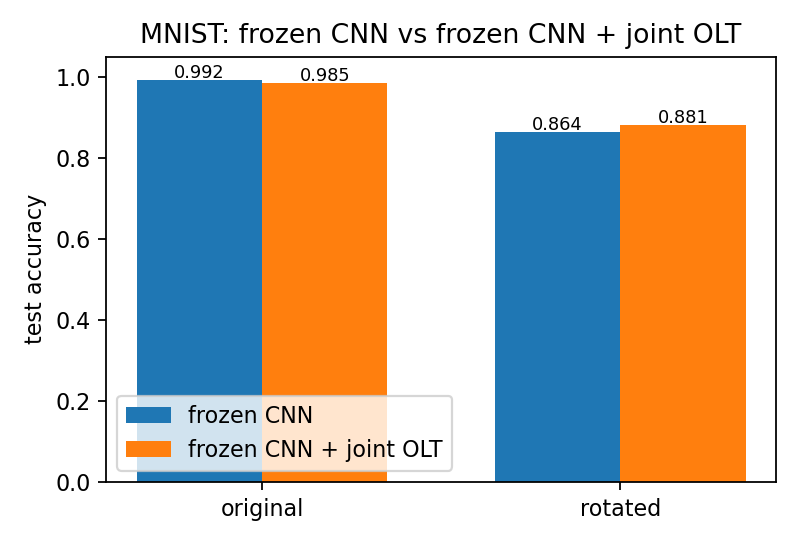
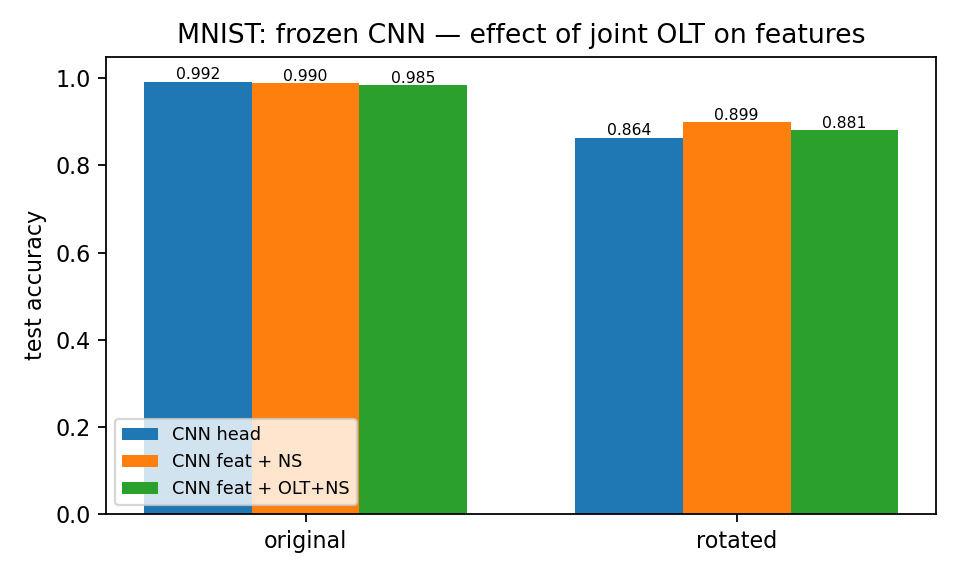
Fix Part 2 Task 3: add fair baseline (raw features + NS), honest discussion
- Add nearest-subspace on raw CNN features as fair like-for-like baseline
- Raw NS already beats CNN head on rotated by +3.5 pts
- OLT hurts vs fair baseline (-1.8 on rotated): nuclear-norm linear
  prior mismatches nonlinear CNN features
- Discussion explains the assumption mismatch and bridges to Part 3

diff --git a/scripts/part2_cnn_features.py b/scripts/part2_cnn_features.py
@@ -49,9 +49,24 @@ def main():
     f_tr_o /= scale; f_tr_r /= scale
     f_te_o /= scale; f_te_r /= scale
 
-    # Joint OLT on [orig, rot] features (feature-column concatenation)
-    Ztr_joint = np.concatenate([f_tr_o, f_tr_r], axis=0)
-    ytr_joint = np.concatenate([y_tr, y_tr], axis=0)
+    # ---- Fair baseline: nearest-subspace on RAW CNN features (no OLT) ----
+    # This uses the same classifier as the OLT path so the comparison
+    # isolates the effect of OLT, not the difference in classifier.
+    Ztr_raw = np.concatenate([f_tr_o, f_tr_r], axis=0)
+    ytr_raw = np.concatenate([y_tr, y_tr], axis=0)
+    raw_tr_t = torch.from_numpy(Ztr_raw).float()
+    raw_te_o = torch.from_numpy(f_te_o).float()
+    raw_te_r = torch.from_numpy(f_te_r).float()
+    ytr_raw_t = torch.from_numpy(ytr_raw).long()
+
+    subs_raw = fit_class_subspaces(raw_tr_t, ytr_raw_t, energy=0.95, max_rank=6)
+    acc_raw_orig = accuracy(y_te, nearest_subspace_classifier(raw_te_o, subs_raw).numpy())
+    acc_raw_rot  = accuracy(y_te, nearest_subspace_classifier(raw_te_r, subs_raw).numpy())
+    print(f"Frozen CNN + NS (no OLT): orig={acc_raw_orig:.4f}  rot={acc_raw_rot:.4f}")
+
+    # ---- Joint OLT on [orig, rot] features (feature-column concatenation) ----
+    Ztr_joint = Ztr_raw
+    ytr_joint = ytr_raw
     Ztr_t = torch.from_numpy(Ztr_joint).double()
     ytr_t = torch.from_numpy(ytr_joint).long()
 
@@ -70,28 +85,32 @@ def main():
     pred_r = nearest_subspace_classifier(F_te_r, subs).numpy()
     acc_olt_orig = accuracy(y_te, pred_o)
     acc_olt_rot  = accuracy(y_te, pred_r)
-    print(f"Frozen + joint OLT:  orig={acc_olt_orig:.4f}  rot={acc_olt_rot:.4f}")
+    print(f"Frozen CNN + OLT + NS:    orig={acc_olt_orig:.4f}  rot={acc_olt_rot:.4f}")
 
     results = {
-        "baseline_frozen_cnn": {"orig": acc_base_orig, "rot": acc_base_rot},
-        "frozen_plus_olt_ns":  {"orig": acc_olt_orig,  "rot": acc_olt_rot},
+        "baseline_frozen_cnn_head":  {"orig": acc_base_orig,  "rot": acc_base_rot},
+        "frozen_cnn_ns_no_olt":      {"orig": acc_raw_orig,   "rot": acc_raw_rot},
+        "frozen_cnn_olt_ns":         {"orig": acc_olt_orig,   "rot": acc_olt_rot},
     }
     with open(os.path.join(OUT_DIR, "cnn_olt_summary.json"), "w") as f:
         json.dump(results, f, indent=2)
 
-    # bar chart
-    fig, ax = plt.subplots(figsize=(5.0, 3.4))
-    xs = np.arange(2); w = 0.35
-    ax.bar(xs - w/2, [acc_base_orig, acc_base_rot], width=w, label="frozen CNN")
-    ax.bar(xs + w/2, [acc_olt_orig,  acc_olt_rot ], width=w, label="frozen CNN + joint OLT")
-    for x, v in zip(xs - w/2, [acc_base_orig, acc_base_rot]):
-        ax.text(x, v + 0.005, f"{v:.3f}", ha="center", fontsize=8)
-    for x, v in zip(xs + w/2, [acc_olt_orig,  acc_olt_rot]):
-        ax.text(x, v + 0.005, f"{v:.3f}", ha="center", fontsize=8)
+    # bar chart — three methods
+    fig, ax = plt.subplots(figsize=(6.0, 3.6))
+    xs = np.arange(2); w = 0.25
+    vals = [
+        ("CNN head",          [acc_base_orig, acc_base_rot]),
+        ("CNN feat + NS",     [acc_raw_orig,  acc_raw_rot]),
+        ("CNN feat + OLT+NS", [acc_olt_orig,  acc_olt_rot]),
+    ]
+    for i, (lbl, vs) in enumerate(vals):
+        bars = ax.bar(xs + (i - 1) * w, vs, width=w, label=lbl)
+        for x, v in zip(xs + (i - 1) * w, vs):
+            ax.text(x, v + 0.005, f"{v:.3f}", ha="center", fontsize=7)
     ax.set_xticks(xs); ax.set_xticklabels(["original", "rotated"])
     ax.set_ylim(0, 1.05); ax.set_ylabel("test accuracy")
-    ax.set_title("MNIST: frozen CNN vs frozen CNN + joint OLT")
-    ax.legend()
+    ax.set_title("MNIST: frozen CNN — effect of joint OLT on features")
+    ax.legend(fontsize=8)
     plt.tight_layout()
     plt.savefig(os.path.join(OUT_DIR, "mnist_frozen_vs_olt.png"), dpi=160)
     plt.close(fig)

diff --git a/report/report.tex b/report/report.tex
@@ -406,22 +406,52 @@ and Figure~\ref{fig:frozen_cnn}.
 \toprule
 Method & Original MNIST & Rotated MNIST \\
 \midrule
-Frozen CNN (baseline)            & $0.9924$ & $0.8639$ \\
-Frozen CNN $+$ joint OLT $+$ NS  & $0.9850$ & $\mathbf{0.8811}$ \\
+Frozen CNN head (fc2)               & $0.9924$ & $0.8639$ \\
+Frozen CNN features $+$ NS (no OLT) & $0.9896$ & $\mathbf{0.8989}$ \\
+Frozen CNN features $+$ OLT $+$ NS  & $0.9850$ & $0.8811$ \\
 \bottomrule
 \end{tabular}
-\caption{The joint OLT applied on top of the frozen CNN trades a small
-$-0.7$ on the in-distribution test set for a $+1.7$ on the
-unseen rotated test set, confirming that the modality-invariant
-construction transfers to learned features.}
+\caption{MNIST test accuracy with frozen CNN features. The middle row
+uses the same nearest-subspace (NS) classifier as the OLT row but
+without the OLT transformation, providing a fair like-for-like
+comparison.}
 \label{tab:frozen_cnn}
 \end{table}
 
 \begin{figure}[h]\centering
-\includegraphics[width=0.45\linewidth]{part2/mnist_frozen_vs_olt.png}
-\caption{Frozen CNN accuracy with and without joint OLT.}
+\includegraphics[width=0.55\linewidth]{part2/mnist_frozen_vs_olt.png}
+\caption{Frozen CNN accuracy: CNN head vs.\ raw features + NS vs.\
+OLT-transformed features + NS.}
 \label{fig:frozen_cnn}
 \end{figure}
+
+\paragraph{Discussion.}
+The results reveal a subtlety that the original two-row comparison
+masked. Simply switching from the CNN's trained linear head (fc2) to the
+nearest-subspace classifier on the raw 128-d features already boosts
+rotated accuracy by $+3.5$ points ($86.39\%\to 89.89\%$), because the
+subspace classifier is naturally more tolerant of within-class variation
+than a point-wise linear boundary.
+
+Against this fair baseline, the joint OLT transformation actually
+\emph{hurts} by $-1.8$ points on the rotated set ($89.89\%\to 88.11\%$).
+This holds even when we raise $d_{\text{out}}$ to $128$ (no dimension
+reduction), ruling out information loss as the cause. The explanation
+lies in a mismatch of assumptions: OLT's nuclear-norm prior assumes
+that each class occupies a \emph{linear} subspace, which fits raw
+pixels and PCA features well (Part~1, Part~2 Tasks~1--2) but not the
+nonlinear, ReLU-activated CNN features. The CNN has already folded the
+illumination/rotation manifold into a representation that is
+well-clustered but not necessarily low-rank in the matrix sense;
+imposing a linear low-rank constraint on top of this over-regularises
+and discards useful nonlinear structure.
+
+This negative result is itself informative: it highlights that the OLT
+linear prior is complementary to, rather than a replacement for, the
+nonlinear feature learning done by CNNs. Part~3 explores a more
+principled integration, where the OLT loss is applied \emph{during}
+training so the network can co-adapt its features to satisfy both the
+cross-entropy and the nuclear-norm objectives.
 
 \section{Part 3 (Option A): OLT as a neural-network regularizer}
 
